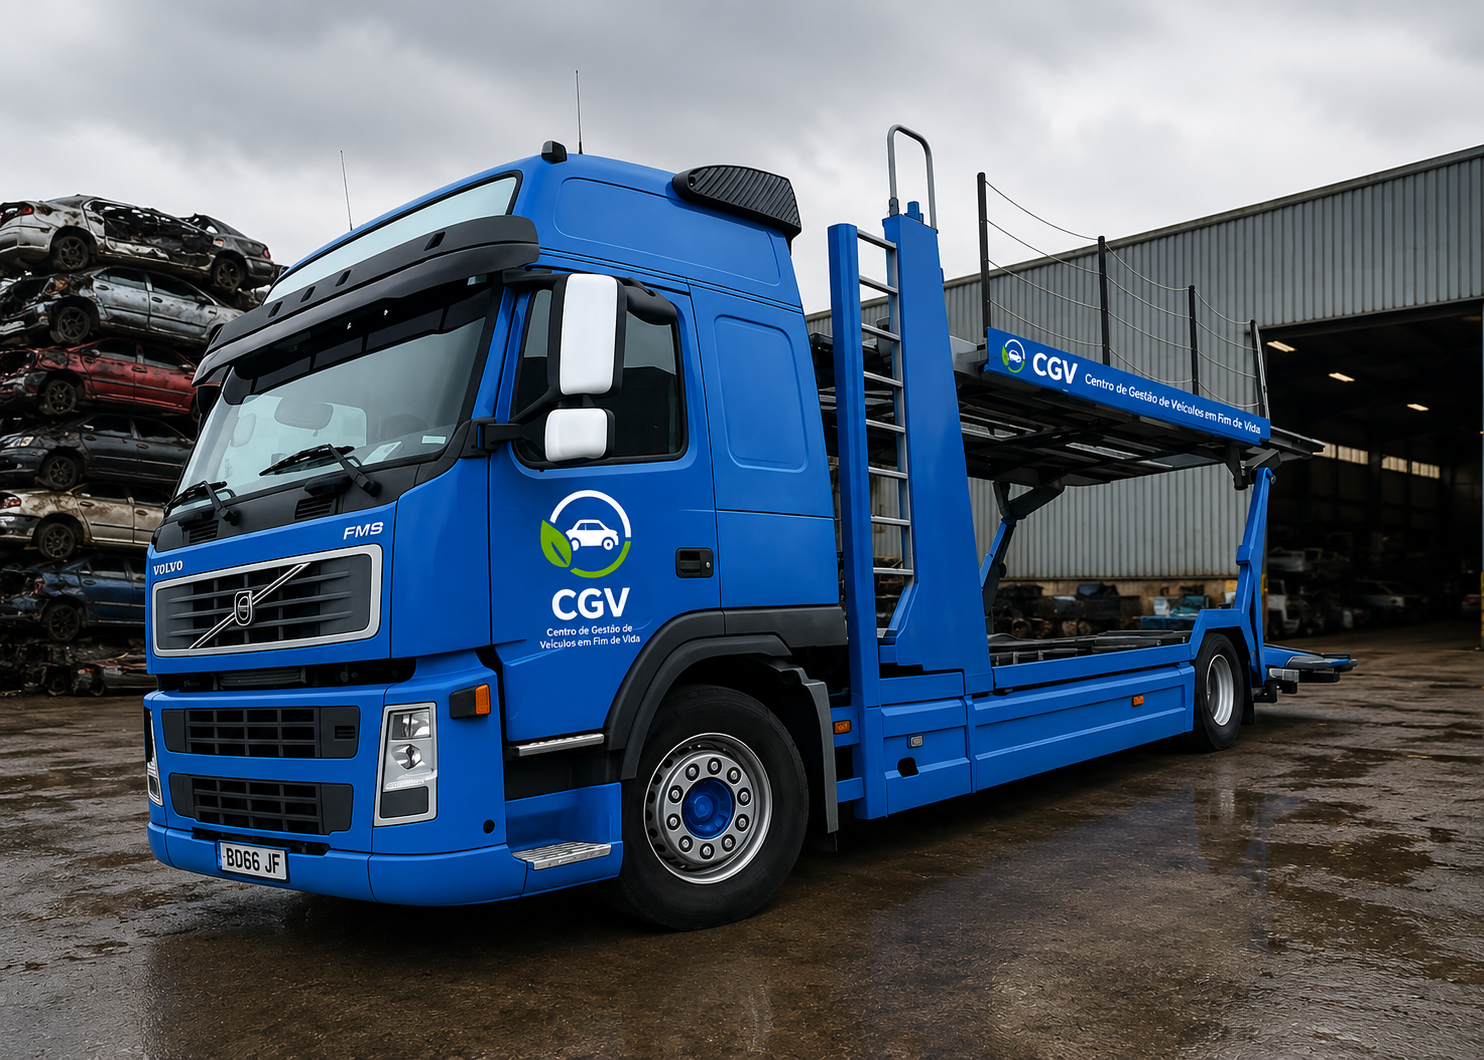
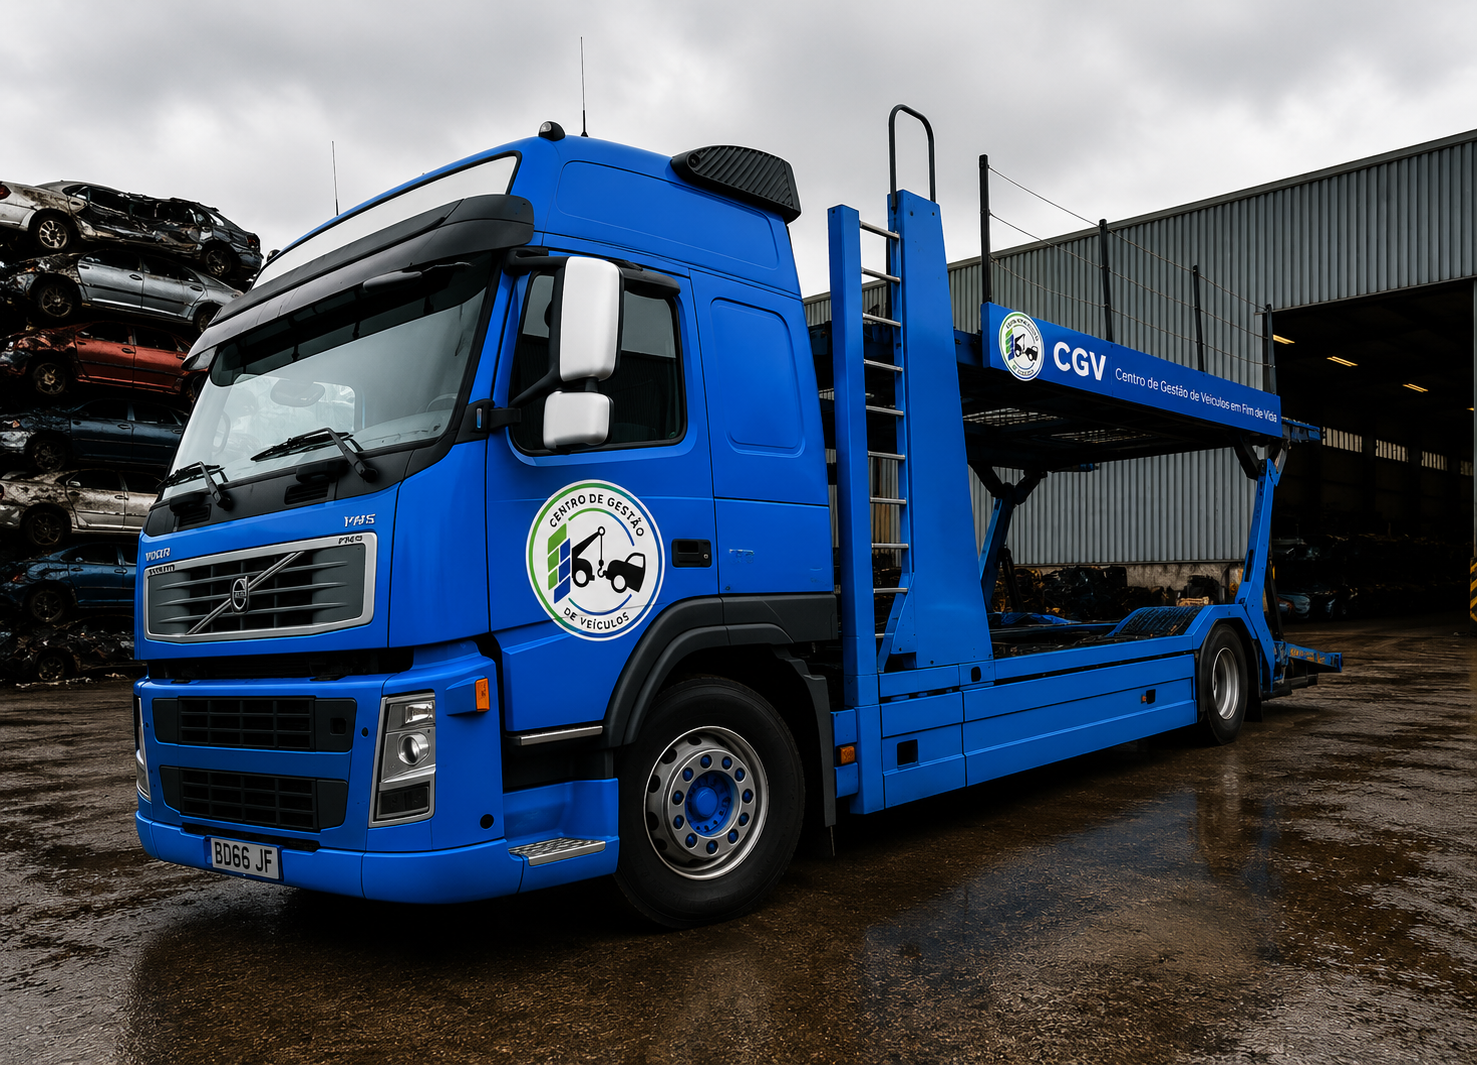
Atualizar branding CGV

diff --git a/site-abate/src/App.jsx b/site-abate/src/App.jsx
@@ -127,17 +127,26 @@ const indicadores = [
     <div className="min-h-screen bg-white text-slate-800 overflow-x-hidden">
       <header className="border-b border-emerald-200 bg-gradient-to-r from-emerald-50 via-cyan-50 to-white backdrop-blur sticky top-0 z-50 shadow-sm">
         <div className="max-w-7xl mx-auto flex items-center justify-between gap-4 px-5 sm:px-6 py-4">
+        
         <a
   href="#"
-  className="group cursor-pointer block transition"
+  className="group cursor-pointer flex items-center gap-3 transition"
 >
-  <h1 className="text-2xl font-bold tracking-tight text-slate-800 group-hover:text-emerald-500 transition duration-300">
-    CGV
-  </h1>
+  <img
+    src="/logo1.png"
+    alt="Logo CGV"
+    className="w-18 h-16 object-contain"
+  />
 
-  <p className="text-sm text-slate-600 group-hover:text-emerald-500 transition duration-300">
-    Centro de Gestão de Veículos em Fim de Vida
-  </p>
+  <div>
+    <h1 className="text-2xl font-bold tracking-tight text-slate-800 group-hover:text-emerald-500 transition duration-300">
+      CGV
+    </h1>
+
+    <p className="text-sm text-slate-600 group-hover:text-emerald-500 transition duration-300">
+      Centro de Gestão de Veículos em Fim de Vida
+    </p>
+  </div>
 </a>
 
          <nav className="flex items-center justify-end">
@@ -617,9 +626,22 @@ const indicadores = [
       <footer id="contactos" className="border-t border-emerald-100 bg-white">
         <div className="max-w-7xl mx-auto px-6 py-12 grid md:grid-cols-2 gap-8 items-center">
           <div>
-            <h4 className="text-2xl font-bold mb-2">CGVeículos</h4>
-            <p className="text-slate-500 max-w-md">
-              Soluções digitais para operadores de gestão de veículos em fim de vida e centros de reciclagem automóvel.
+            
+            <div className="flex items-center gap-3 mb-3">
+  <img
+    src="/logo1.png"
+    alt="Logo CGV"
+    className="w-16 h-18 object-contain"
+  />
+
+  <h4 className="text-2xl font-bold text-slate-800">
+    CGVeículos
+  </h4>
+</div>
+            
+            <p className="text-slate-500 text-sm">
+              Gestão de veículos em fim de vida. Pedido de abate, recolha, documentação e pagamento imediato. Serviço rápido e profissional em Portugal e veículos estrangeiros.
+              Apoio ao incentivo na compra de carros elétricos.
             </p>
           </div>
 

diff --git a/site-abate/index.html b/site-abate/index.html
@@ -2,7 +2,7 @@
 <html lang="en">
   <head>
     <meta charset="UTF-8" />
-    <link rel="icon" type="image/svg+xml" href="/favicon.svg" />
+    <link rel="icon" type="image/svg+xml" href="/logo1.png" />
     <meta name="viewport" content="width=device-width, initial-scale=1.0" />
     <title>CGVeículos - Abate de Veículos e Gestão Automóvel</title>
 